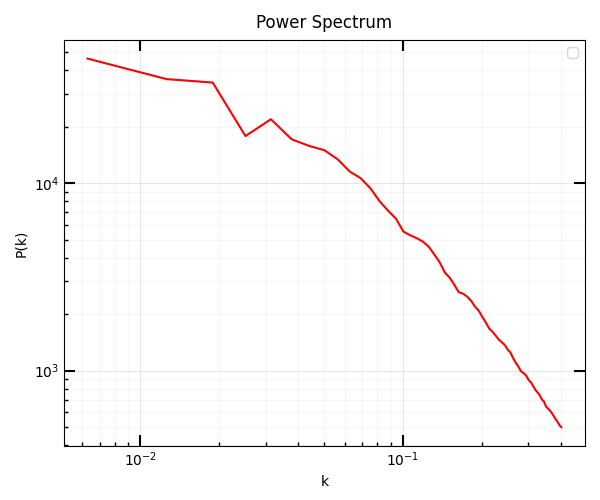
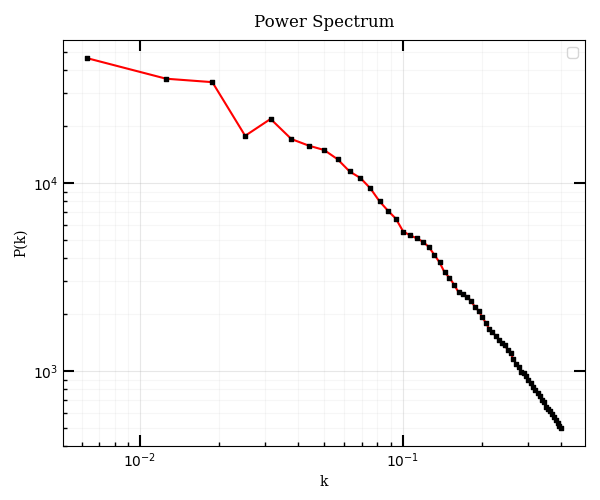
DFT, NGP, CIC

diff --git a/cosmology_uphi/particle_data.py b/cosmology_uphi/particle_data.py
@@ -1,18 +1,73 @@
 import numpy as np
+from tqdm import tqdm
+from .field import field
 
-class particles:
+class particles(field):
     # a box with width L, and divided to N each side
-    def __init__(self, position, velocity, L, N):
+    def __init__(self, position, velocity, field: field):
+        super().__init__(field.L, field.N, field.ff)
         self.x = position
-        self.v = velocity
-        self.L = L
-        self.N = N
-        self.n = N*N*N # total number of bins
-        self.V = L*L*L # volume
+        self.v = velocity 
 
+
+    def DFT(self):
+        k_vals = np.fft.fftfreq(self.N, self.h) * 2 * np.pi
+        kx, ky, kz = np.meshgrid(k_vals, k_vals, k_vals, indexing='ij')
+        k = np.stack([kx, ky, kz], axis=-1).reshape(-1, 3) 
+
+        delta_k = np.zeros(k.shape[0], dtype=np.complex128)
+
+        for idx, kvec in tqdm(enumerate(k)):
+            phase = np.dot(self.x * self.h, kvec)
+            delta_k[idx] = np.sum(np.exp(-1j * phase))
+        delta_k_grid = delta_k.reshape(self.N, self.N, self.N)
+
+        return field(self.L, self.N, delta_k_grid)
     
-    def NGP(self, window_function):
-        pass
+    def NGP(self, deconvolution = True):
+        rho = np.zeros((self.N, self.N, self.N))
 
-    def CIC(self, window_function):
-        pass
+        for i in range(len(self.x)):
+            xi = self.x[i]
+            grid_coords = np.round(xi).astype(int) % self.N  # particle -> mesh -> int -> periodic boundary
+
+            ix, iy, iz = grid_coords
+            rho[ix, iy, iz] += 1.0
+        
+        fourier_rho = np.fft.rfftn(np.array(rho))
+
+        if deconvolution:
+            return field(self.L, self.N, fourier_rho)
+        else:
+            return field(self.L, self.N, fourier_rho)
+
+
+
+
+    def CIC(self, deconvolution = True):
+        rho = np.zeros((self.N, self.N, self.N))
+
+        for i in range(len(self.x)):
+            xi = self.x[i] 
+            base = np.floor(xi).astype(int)  # 左下角最近整数格点
+            d = xi - base  # 粒子相对于base点的偏移量（在0~1之间）
+
+            for dx in [0, 1]:
+                wx = 1 - d[0] if dx == 0 else d[0]
+                ix = (base[0] + dx) % self.N
+                for dy in [0, 1]:
+                    wy = 1 - d[1] if dy == 0 else d[1]
+                    iy = (base[1] + dy) % self.N
+                    for dz in [0, 1]:
+                        wz = 1 - d[2] if dz == 0 else d[2]
+                        iz = (base[2] + dz) % self.N
+
+                        weight = wx * wy * wz
+                        rho[ix, iy, iz] +=  weight
+
+        fourier_rho = np.fft.rfftn(np.array(rho))
+        
+        if deconvolution:
+            return field(self.L, self.N, fourier_rho)
+        else:
+            return field(self.L, self.N, fourier_rho)

diff --git a/cosmology_uphi/fplt.py b/cosmology_uphi/fplt.py
@@ -1,7 +1,7 @@
 import numpy as np
 import matplotlib.pyplot as plt
 
-def fplt(x, y, color, label, title, xlabel, ylabel, xstyle = "normal", ystyle = "normal"):
+def fplt(x, y, col, lab, title, xlabel, ylabel, xstyle = "normal", ystyle = "normal"):
     # Updating parameters, creat figure
     plt.rcParams.update({
         "font.size": 16, "axes.linewidth": 2,
@@ -11,11 +11,13 @@ def fplt(x, y, color, label, title, xlabel, ylabel, xstyle = "normal", ystyle = 
 
     # Set axes
     ax = fig.add_subplot()
-    if np.ndim(x) == 2:
+    if np.ndim(x) >= 2:
         for i in range(len(x)):
-            ax.plot(x[i], y[i], color[i], label[i])
+            ax.plot(x[i], y[i], color = col[i], label = lab[i], lw = 1.5)
+            ax.scatter(x[i], y[i], color='black',  s = 10, marker = 's')
     elif np.ndim(x) == 1:
-        ax.plot(x, y, color,label)
+        ax.plot(x, y, color = col, label = lab, lw = 1.5)
+        ax.scatter(x, y, color='black', s = 10, marker = 's')
 
 
     # Tick parameters
@@ -33,14 +35,12 @@ def fplt(x, y, color, label, title, xlabel, ylabel, xstyle = "normal", ystyle = 
     elif ystyle != "normal":
         raise ValueError("y-style is illegal.")
     
-    ax.set_ylabel(ylabel)
-    ax.set_xlabel(xlabel)
-    ax.set_title(title, y=1.01)
-    plt.legend(loc = 'upper right')
+    ax.set_ylabel(ylabel, family = 'serif')
+    ax.set_xlabel(xlabel, family = 'serif')
+    ax.set_title(title, y=1.01, family = 'serif')
+    # plt.legend(loc = 'upper right')
     plt.tight_layout()
-
     plt.grid(True)
-    plt.legend()
     plt.tick_params(axis="both", direction="in", length=8, width=1.5)
     plt.tick_params(which="minor", direction="in", length=3, width=1)
     plt.grid(which="major", alpha=0.3)

diff --git a/cosmology_uphi/field.py b/cosmology_uphi/field.py
@@ -2,10 +2,12 @@ import numpy as np
 from math import hypot
 
 class field:
-    def __init__(self, L, N, fourier_field_array):
+    def __init__(self, L, N, fourier_field_array = None):
         self.L = L
         self.N = N
         self.kF = 2*np.pi/L # fundamental k
+        self.h = L/N 
+        self.kN = np.pi/(L/N) # Nyquist Frequency
         self.n = N*N*N # total number of bins
         self.V = L*L*L # volume of the box (field)
         self.ff = fourier_field_array
@@ -18,7 +20,7 @@ class field:
 
         s = int(k_grid.shape[0])
 
-        x, y, z = self.ff.shape
+        x, y, z = self.ff.shape # type: ignore
         for i in range(x):
             a = i
             if i >= self.N//2+1:
@@ -35,11 +37,11 @@ class field:
                     idx = int(k_mod//self.kF) -1
                     if idx <= s-1:
                         count[idx] += 1
-                        sum[idx] += abs(self.ff[i][j][l])**2
+                        sum[idx] += abs(self.ff[i][j][l])**2 # type: ignore
                     
         P = sum*self.V/self.n/self.n/count
 
-        return [k_grid, P, count]
+        return [k_grid, P]
     
     from .pm_data import pm_data
     def BinnedCorrection(self, pm: pm_data):

diff --git a/test1.py b/test1.py
@@ -19,4 +19,4 @@ if __name__ == "__main__":
 
     kF = 2* np.pi/L
     k_grid = np.arange(kF, N*kF/2+kF/10, kF)
-    cu.fplt(gf.estimator()[0], gf.estimator()[1], "red", "binned correction", "Power Spectrum", "k", "P(k)", "log", "log")
+    cu.fplt(gf.estimator()[0], gf.estimator()[1], "red", "binned correction", "Power Spectrum ", r'Wave Number $k\,\mathrm{h/Mpc}$', r'Power Spectrum $P(k) \, \mathrm{(Mpc/h)}^3$', "log", "log")

diff --git a/cosmology_uphi/__init__.py b/cosmology_uphi/__init__.py
@@ -1,6 +1,6 @@
-from .growth.linear_growth_factor import D # linear growth factor D
 from .fplt import fplt
 
 from .pm_data import pm_data
 from .particle_data import particles
 from .field import field
+from .cosm_para import universe
